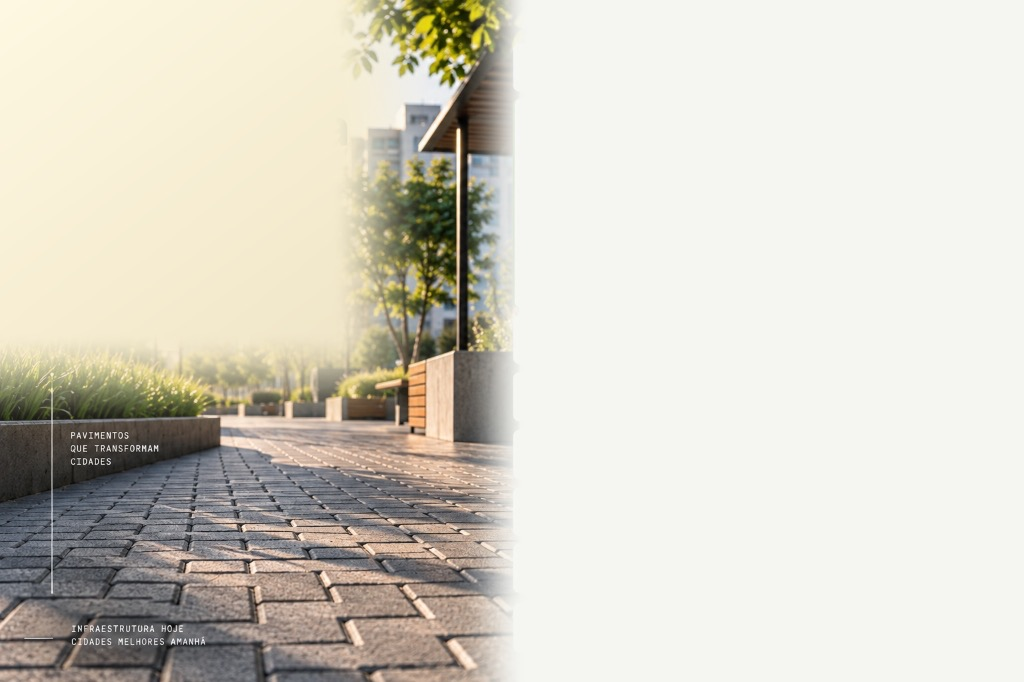
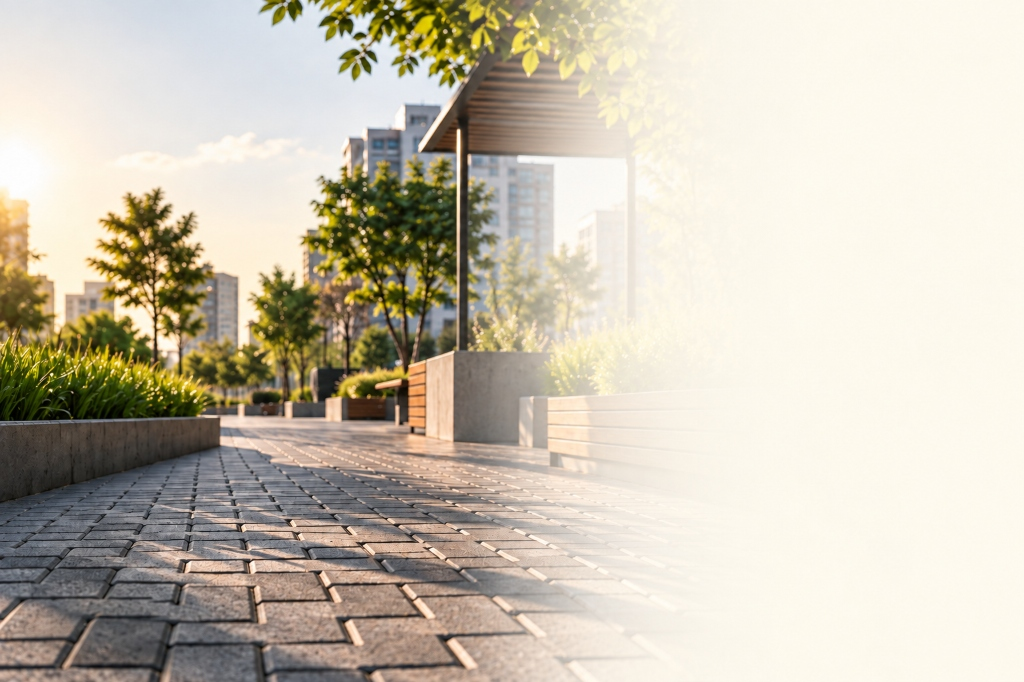
feat(ui): integrar imagens oficiais de alta resolucao, unificar tipografia e harmonizar diagramacao

diff --git a/styles.css b/styles.css
@@ -1,20 +1,20 @@
 :root{--ink:#191a18;--muted:#666963;--line:rgba(25,26,24,.13);--paper:#fff;--soft:#f4f4ef;--green:#405b38;--ochre:#b7802a;--dark:#151814;--pad:clamp(20px,5vw,72px);--ease:cubic-bezier(.22,1,.36,1);--font-main:"Manrope",-apple-system,BlinkMacSystemFont,sans-serif;--font-mono:"IBM Plex Mono",monospace}
 *{box-sizing:border-box}html{scroll-behavior:smooth}body{margin:0;background:var(--paper);color:var(--ink);font-family:var(--font-main);-webkit-font-smoothing:antialiased;overflow-x:hidden}body.locked{overflow:hidden}img{display:block;width:100%}a{color:inherit;text-decoration:none}button,input,textarea{font:inherit}button{cursor:pointer}h1,h2,h3,p{margin:0}h1,h2,h3,h4,h5,h6{font-family:var(--font-main);letter-spacing:-.035em}h1{font-weight:800;letter-spacing:-.045em}h2{font-size:clamp(2.2rem,4vw,3.75rem);line-height:1.06;font-weight:700}h3{font-weight:700;letter-spacing:-.02em}.section{padding:clamp(90px,11vw,160px) var(--pad)}.eyebrow{font:500 12px/1.2 var(--font-mono);letter-spacing:.14em;text-transform:uppercase;color:var(--green);margin-bottom:28px}.eyebrow:before{content:"• ";}.eyebrow.light{color:rgba(255,255,255,.62)}
 .site-header{position:fixed;z-index:100;top:0;left:0;width:100%;height:86px;padding:0 var(--pad);display:flex;align-items:center;justify-content:space-between;border-bottom:1px solid rgba(255,255,255,.15);transition:.35s}.site-header.scrolled{height:68px;background:rgba(21,24,20,.88);backdrop-filter:blur(16px)}.brand img{width:136px;filter:brightness(0) invert(1)}.menu-toggle{width:44px;height:44px;border:0;background:transparent;display:grid;align-content:center;gap:7px;padding:8px;position:relative;z-index:3}.menu-toggle span{height:1px;width:26px;background:#fff;transition:.35s var(--ease)}.menu-toggle.active span:first-child{transform:translateY(4px) rotate(45deg)}.menu-toggle.active span:last-child{transform:translateY(-4px) rotate(-45deg)}
-.menu-panel{position:fixed;inset:0;z-index:90;padding:120px var(--pad) 42px;background:var(--dark);color:#fff;display:flex;flex-direction:column;opacity:0;visibility:hidden;transform:translateY(-18px);transition:.45s var(--ease)}.menu-panel.open{opacity:1;visibility:visible;transform:none}.menu-panel nav{margin:auto 0;display:flex;flex-direction:column}.menu-panel nav a{font-size:clamp(25px,4.1vw,58px);line-height:1.2;color:rgba(255,255,255,.62);transition:.25s}.menu-panel nav a:hover{color:#fff;transform:translateX(10px)}.menu-panel nav small{display:inline-block;width:38px;font:400 10px "JetBrains Mono";letter-spacing:0;color:rgba(255,255,255,.38)}.menu-meta{display:flex;justify-content:space-between;padding-top:22px;border-top:1px solid rgba(255,255,255,.12);font:400 11px "JetBrains Mono";color:rgba(255,255,255,.46)}
-.hero{height:100svh;min-height:680px;position:relative;color:#fff;display:flex;align-items:center;padding:100px var(--pad) 70px;overflow:hidden}.hero-media,.hero-shade{position:absolute;inset:0}.hero-media img{height:100%;object-fit:cover;transform:scale(1.02);animation:heroZoom 18s ease-out both}.hero-shade{background:linear-gradient(90deg,rgba(10,13,10,.7) 0%,rgba(10,13,10,.22) 62%),linear-gradient(0deg,rgba(8,10,8,.68),transparent 55%)}@keyframes heroZoom{to{transform:scale(1.09)}}.hero-content{position:relative;z-index:2;max-width:790px}.hero h1{font-size:clamp(48px,5.8vw,72px);line-height:1.02;letter-spacing:-.045em}.hero-content>p{font-size:clamp(17px,1.55vw,21px);line-height:1.5;max-width:560px;margin:30px 0}.button{height:45px;display:inline-grid;align-items:start;overflow:hidden;padding:0 20px;border:0;border-radius:3px;font-weight:500;font-size:13px}.button span{height:45px;display:flex;align-items:center;transition:transform .4s var(--ease)}.button:hover span{transform:translateY(-45px)}.button-light{background:#fff;color:var(--ink)}.button-dark{background:var(--dark);color:#fff}.hero-proof{position:absolute;z-index:2;bottom:55px;right:var(--pad);display:flex;align-items:center;gap:13px}.avatars{display:flex}.avatars img{width:42px;height:42px;object-fit:cover;border-radius:50%;border:2px solid #fff;margin-left:-10px}.avatars img:first-child{margin-left:0}.hero-proof p{display:flex;flex-direction:column;font-size:12px}.hero-proof span{color:rgba(255,255,255,.65);font-size:10px}.scroll-cue{position:absolute;z-index:2;bottom:20px;left:var(--pad);font:400 10px "JetBrains Mono";color:rgba(255,255,255,.6);text-transform:uppercase;letter-spacing:.08em}.scroll-cue span{margin-left:10px}
+.menu-panel{position:fixed;inset:0;z-index:90;padding:120px var(--pad) 42px;background:var(--dark);color:#fff;display:flex;flex-direction:column;opacity:0;visibility:hidden;transform:translateY(-18px);transition:.45s var(--ease)}.menu-panel.open{opacity:1;visibility:visible;transform:none}.menu-panel nav{margin:auto 0;display:flex;flex-direction:column}.menu-panel nav a{font-size:clamp(25px,4.1vw,58px);line-height:1.2;color:rgba(255,255,255,.62);transition:.25s}.menu-panel nav a:hover{color:#fff;transform:translateX(10px)}.menu-panel nav small{display:inline-block;width:38px;font:400 10px var(--font-mono);letter-spacing:0;color:rgba(255,255,255,.38)}.menu-meta{display:flex;justify-content:space-between;padding-top:22px;border-top:1px solid rgba(255,255,255,.12);font:400 11px var(--font-mono);color:rgba(255,255,255,.46)}
+.hero{height:100svh;min-height:680px;position:relative;color:#fff;display:flex;align-items:center;padding:100px var(--pad) 70px;overflow:hidden}.hero-media,.hero-shade{position:absolute;inset:0}.hero-media img{height:100%;object-fit:cover;transform:scale(1.02);animation:heroZoom 18s ease-out both}.hero-shade{background:linear-gradient(90deg,rgba(10,13,10,.7) 0%,rgba(10,13,10,.22) 62%),linear-gradient(0deg,rgba(8,10,8,.68),transparent 55%)}@keyframes heroZoom{to{transform:scale(1.09)}}.hero-content{position:relative;z-index:2;max-width:790px}.hero h1{font-size:clamp(48px,5.8vw,72px);line-height:1.02;letter-spacing:-.045em}.hero-content>p{font-size:clamp(17px,1.55vw,21px);line-height:1.5;max-width:560px;margin:30px 0}.button{height:45px;display:inline-grid;align-items:start;overflow:hidden;padding:0 20px;border:0;border-radius:3px;font-weight:500;font-size:13px}.button span{height:45px;display:flex;align-items:center;transition:transform .4s var(--ease)}.button:hover span{transform:translateY(-45px)}.button-light{background:#fff;color:var(--ink)}.button-dark{background:var(--dark);color:#fff}.hero-proof{position:absolute;z-index:2;bottom:55px;right:var(--pad);display:flex;align-items:center;gap:13px}.avatars{display:flex}.avatars img{width:42px;height:42px;object-fit:cover;border-radius:50%;border:2px solid #fff;margin-left:-10px}.avatars img:first-child{margin-left:0}.hero-proof p{display:flex;flex-direction:column;font-size:12px}.hero-proof span{color:rgba(255,255,255,.65);font-size:10px}.scroll-cue{position:absolute;z-index:2;bottom:20px;left:var(--pad);font:400 10px var(--font-mono);color:rgba(255,255,255,.6);text-transform:uppercase;letter-spacing:.08em}.scroll-cue span{margin-left:10px}
 .manifesto{position:relative;z-index:4;margin-top:-24px;scroll-margin-top:calc(100svh - 200px);border-radius:24px 24px 0 0;background:var(--paper);text-align:center;min-height:105svh;display:flex;flex-direction:column;justify-content:center;align-items:center;overflow:hidden}.manifesto-copy{font-size:clamp(30px,4vw,56px);line-height:1.18;letter-spacing:-.04em;max-width:1080px}.manifesto-copy em{font-weight:300;color:var(--green)}.manifesto-word{display:inline-block;will-change:transform,filter,opacity;transition:opacity .08s linear,filter .08s linear,transform .08s linear}
 .journey{background:var(--dark);color:#fff;padding:0 var(--pad)}.journey-shell{display:grid;grid-template-columns:minmax(280px,.72fr) minmax(0,1.45fr);gap:clamp(48px,8vw,130px);max-width:1500px;margin:auto}.journey-intro{position:sticky;top:0;height:100svh;display:flex;flex-direction:column;justify-content:center}.journey-intro h2{font-size:clamp(48px,5.4vw,82px)}.journey-intro>p:not(.eyebrow){margin-top:30px;max-width:420px;color:rgba(255,255,255,.6);font-size:17px;line-height:1.62}.journey-status{margin-top:55px;display:grid;grid-template-columns:25px 1fr 25px;align-items:center;gap:13px;color:rgba(255,255,255,.45);font-size:11px;font-variant-numeric:tabular-nums}.journey-current{color:#fff}.journey-progress{height:1px;background:rgba(255,255,255,.18);overflow:hidden}.journey-progress i{display:block;width:25%;height:100%;background:var(--ochre);transition:width .65s var(--ease)}.journey-stage{min-height:100svh;display:flex;flex-direction:column;justify-content:center;padding:11vh 0;opacity:.42;transform:scale(.975);transition:opacity .65s var(--ease),transform .65s var(--ease)}.journey-stage.is-active{opacity:1;transform:none}.journey-stage figure{margin:0;overflow:hidden;border-radius:2px}.journey-stage img{aspect-ratio:16/9;object-fit:cover;filter:saturate(.82);transition:transform 1.2s var(--ease)}.journey-stage.is-active img{transform:scale(1.018)}.journey-copy{display:grid;grid-template-columns:150px 1fr;gap:25px;padding-top:28px}.journey-copy>span{font-size:11px;letter-spacing:.08em;text-transform:uppercase;color:var(--ochre)}.journey-copy h3{font-size:clamp(28px,3vw,44px);line-height:1.08}.journey-copy p{grid-column:2;color:rgba(255,255,255,.58);font-size:16px;line-height:1.6;max-width:620px}
 .stats{background:#eeeee7!important}.stats-intro{display:grid;grid-template-columns:1fr 1.3fr;gap:7vw;align-items:end;margin-bottom:clamp(55px,7vw,100px)}.stats-intro .eyebrow{grid-column:1/-1;margin-bottom:0}.stats-intro h2{font-size:clamp(48px,6vw,88px)}.stats-intro>p:last-child{max-width:450px;color:var(--muted);font-size:18px;line-height:1.6;padding-bottom:8px}.stats-grid{display:grid;grid-template-columns:repeat(2,1fr);gap:2px;background:rgba(25,26,24,.13)}.metric{min-height:390px;padding:clamp(28px,3.5vw,52px);background:#f8f8f4;display:grid;grid-template-columns:1fr auto;grid-template-rows:auto 1fr auto;overflow:hidden;transition:background .5s var(--ease),color .5s var(--ease)}.metric-index{font-size:11px;color:var(--muted)}.metric>p{justify-self:end;font-size:13px;text-transform:uppercase;letter-spacing:.08em}.metric strong{grid-column:1/-1;align-self:center;display:block;font-size:clamp(76px,10vw,154px);line-height:.8;font-weight:500;letter-spacing:-.075em;transform:translateY(28px);opacity:0;transition:transform .85s var(--ease),opacity .85s var(--ease)}.stats.metrics-visible .metric strong{transform:none;opacity:1}.metric:nth-child(2) strong{transition-delay:.08s}.metric:nth-child(3) strong{transition-delay:.16s}.metric:nth-child(4) strong{transition-delay:.24s}.metric strong small{font-size:.27em;letter-spacing:-.03em;margin-left:8px}.metric>div{grid-column:1/-1;display:grid;grid-template-columns:80px minmax(0,360px);gap:20px;align-items:start}.metric>div i{height:2px;background:var(--ochre);margin-top:10px}.metric>div span{font-size:15px;line-height:1.5;color:var(--muted)}.metric-featured{background:var(--green);color:#fff}.metric-featured .metric-index,.metric-featured>div span{color:rgba(255,255,255,.63)}.metric-dark{background:var(--dark);color:#fff}.metric-dark .metric-index,.metric-dark>div span{color:rgba(255,255,255,.6)}
-.collection{background:#fafaf8}.collection .section-head{padding-bottom:60px}.filters{display:flex;gap:4px;background:#eeeee9;padding:5px}.filters button{border:0;background:transparent;padding:10px 15px;font:500 10px "JetBrains Mono";text-transform:uppercase;color:var(--muted)}.filters button.active{background:var(--dark);color:#fff}.product-grid{display:grid;grid-template-columns:repeat(3,1fr);gap:28px}.product-card{min-width:0;transition:.35s var(--ease)}.product-card:last-child{display:none}.product-image{display:block;width:100%;height:auto;position:relative;border:0;padding:0;background:none;overflow:hidden}.product-image img{aspect-ratio:1/1;object-fit:cover;transition:transform .8s var(--ease)}.product-image:hover img{transform:scale(1.045)}.product-image>span{position:absolute;left:14px;top:14px;padding:7px 9px;background:rgba(255,255,255,.9);font:500 9px "JetBrains Mono";text-transform:uppercase}.product-title{display:flex;justify-content:space-between;gap:16px;align-items:baseline;padding-top:20px}.product-title h3{font-size:22px}.product-title b{font:400 10px "JetBrains Mono";color:var(--ochre);text-transform:uppercase}.product-card>p{color:var(--muted);font-size:14px;margin-top:8px}.spec-row{display:flex;align-items:center;gap:18px;border-top:1px solid var(--line);margin-top:22px;padding-top:15px;font:400 10px "JetBrains Mono";text-transform:uppercase}.spec-row button{margin-left:auto;width:34px;height:34px;border:1px solid var(--line);border-radius:50%;background:transparent}.product-card.hidden{display:none}
-.expertise>h2{margin-bottom:65px}.expertise-list{border-top:1px solid var(--line)}.expertise-list article{display:grid;grid-template-columns:65px 1.1fr 1.6fr 1fr;gap:30px;padding:45px 0;border-bottom:1px solid var(--line)}.expertise-list article>span{font:400 11px "JetBrains Mono"}.expertise-list h3{font-size:clamp(27px,3vw,42px)}.expertise-list p{color:var(--muted);font-size:16px;line-height:1.6;max-width:520px}.expertise-list ul{list-style:none;margin:0;padding:0;font:400 12px/2 "JetBrains Mono"}.expertise-list li{border-bottom:1px solid var(--line)}
-.calculator{background:var(--green);color:#fff;display:grid;grid-template-columns:1fr 1.1fr;gap:10vw;align-items:center}.calc-intro h2{max-width:580px}.calc-intro>p:last-child{max-width:480px;color:rgba(255,255,255,.62);font-size:17px;line-height:1.55;margin-top:30px}.calc-panel{background:#fff;color:var(--ink);padding:clamp(25px,4vw,55px)}.range-head{display:flex;align-items:end;justify-content:space-between}.range-head label{font:500 11px "JetBrains Mono";text-transform:uppercase}.range-head strong{font-size:32px}input[type=range]{width:100%;accent-color:var(--green);margin:38px 0 20px}.presets{display:flex;gap:8px}.presets button{padding:9px 12px;border:1px solid var(--line);background:transparent;font:400 10px "JetBrains Mono"}.calc-results{display:grid;grid-template-columns:1fr 1fr;gap:15px;margin:36px 0}.calc-results article{padding:20px;background:var(--soft)}.calc-results span{display:block;font:400 9px "JetBrains Mono";text-transform:uppercase;margin-bottom:10px}.calc-results strong{font-size:clamp(22px,3vw,34px);color:var(--green)}.text-link{font-size:13px;border-bottom:1px solid var(--ink);padding-bottom:3px}
-.collaboration{background:var(--dark);color:#fff;display:grid;grid-template-columns:1.1fr .9fr;gap:8vw;align-items:center}.collab-image img{height:680px;object-fit:cover}.collab-copy h2{margin-bottom:30px}.collab-copy>p:not(.eyebrow){font-size:19px;line-height:1.6;color:rgba(255,255,255,.63)}dl{margin:55px 0 0}dl div{display:grid;grid-template-columns:120px 1fr;padding:17px 0;border-top:1px solid rgba(255,255,255,.14)}dt{font:400 10px "JetBrains Mono";text-transform:uppercase;color:rgba(255,255,255,.45)}dd{margin:0;font-size:14px}
-.proof .section-head{margin-bottom:60px}.proof-grid{display:grid;grid-template-columns:2fr 1fr;grid-template-rows:1fr 1fr;gap:22px}.proof-grid figure{margin:0;position:relative;overflow:hidden}.proof-grid img{height:100%;object-fit:cover;min-height:260px;transition:transform .8s var(--ease)}.proof-grid figure:hover img{transform:scale(1.025)}.proof-main{grid-row:1/3}.proof-main img{min-height:650px}.proof-grid figcaption{position:absolute;left:18px;bottom:18px;background:rgba(255,255,255,.91);padding:8px 10px;font:500 9px "JetBrains Mono";text-transform:uppercase}
+.collection{background:#fafaf8}.collection .section-head{padding-bottom:60px}.filters{display:flex;gap:4px;background:#eeeee9;padding:5px}.filters button{border:0;background:transparent;padding:10px 15px;font:500 10px var(--font-mono);text-transform:uppercase;color:var(--muted)}.filters button.active{background:var(--dark);color:#fff}.product-grid{display:grid;grid-template-columns:repeat(3,1fr);gap:28px}.product-card{min-width:0;transition:.35s var(--ease)}.product-card:last-child{display:none}.product-image{display:block;width:100%;height:auto;position:relative;border:0;padding:0;background:none;overflow:hidden}.product-image img{aspect-ratio:1/1;object-fit:cover;transition:transform .8s var(--ease)}.product-image:hover img{transform:scale(1.045)}.product-image>span{position:absolute;left:14px;top:14px;padding:7px 9px;background:rgba(255,255,255,.9);font:500 9px var(--font-mono);text-transform:uppercase}.product-title{display:flex;justify-content:space-between;gap:16px;align-items:baseline;padding-top:20px}.product-title h3{font-size:22px}.product-title b{font:400 10px var(--font-mono);color:var(--ochre);text-transform:uppercase}.product-card>p{color:var(--muted);font-size:14px;margin-top:8px}.spec-row{display:flex;align-items:center;gap:18px;border-top:1px solid var(--line);margin-top:22px;padding-top:15px;font:400 10px var(--font-mono);text-transform:uppercase}.spec-row button{margin-left:auto;width:34px;height:34px;border:1px solid var(--line);border-radius:50%;background:transparent}.product-card.hidden{display:none}
+.expertise>h2{margin-bottom:65px}.expertise-list{border-top:1px solid var(--line)}.expertise-list article{display:grid;grid-template-columns:65px 1.1fr 1.6fr 1fr;gap:30px;padding:45px 0;border-bottom:1px solid var(--line)}.expertise-list article>span{font:400 11px var(--font-mono)}.expertise-list h3{font-size:clamp(27px,3vw,42px)}.expertise-list p{color:var(--muted);font-size:16px;line-height:1.6;max-width:520px}.expertise-list ul{list-style:none;margin:0;padding:0;font:400 12px/2 var(--font-mono)}.expertise-list li{border-bottom:1px solid var(--line)}
+.calculator{background:var(--green);color:#fff;display:grid;grid-template-columns:1fr 1.1fr;gap:10vw;align-items:center}.calc-intro h2{max-width:580px}.calc-intro>p:last-child{max-width:480px;color:rgba(255,255,255,.62);font-size:17px;line-height:1.55;margin-top:30px}.calc-panel{background:#fff;color:var(--ink);padding:clamp(25px,4vw,55px)}.range-head{display:flex;align-items:end;justify-content:space-between}.range-head label{font:500 11px var(--font-mono);text-transform:uppercase}.range-head strong{font-size:32px}input[type=range]{width:100%;accent-color:var(--green);margin:38px 0 20px}.presets{display:flex;gap:8px}.presets button{padding:9px 12px;border:1px solid var(--line);background:transparent;font:400 10px var(--font-mono)}.calc-results{display:grid;grid-template-columns:1fr 1fr;gap:15px;margin:36px 0}.calc-results article{padding:20px;background:var(--soft)}.calc-results span{display:block;font:400 9px var(--font-mono);text-transform:uppercase;margin-bottom:10px}.calc-results strong{font-size:clamp(22px,3vw,34px);color:var(--green)}.text-link{font-size:13px;border-bottom:1px solid var(--ink);padding-bottom:3px}
+.collaboration{background:var(--dark);color:#fff;display:grid;grid-template-columns:1.1fr .9fr;gap:8vw;align-items:center}.collab-image img{height:680px;object-fit:cover}.collab-copy h2{margin-bottom:30px}.collab-copy>p:not(.eyebrow){font-size:19px;line-height:1.6;color:rgba(255,255,255,.63)}dl{margin:55px 0 0}dl div{display:grid;grid-template-columns:120px 1fr;padding:17px 0;border-top:1px solid rgba(255,255,255,.14)}dt{font:400 10px var(--font-mono);text-transform:uppercase;color:rgba(255,255,255,.45)}dd{margin:0;font-size:14px}
+.proof .section-head{margin-bottom:60px}.proof-grid{display:grid;grid-template-columns:2fr 1fr;grid-template-rows:1fr 1fr;gap:22px}.proof-grid figure{margin:0;position:relative;overflow:hidden}.proof-grid img{height:100%;object-fit:cover;min-height:260px;transition:transform .8s var(--ease)}.proof-grid figure:hover img{transform:scale(1.025)}.proof-main{grid-row:1/3}.proof-main img{min-height:650px}.proof-grid figcaption{position:absolute;left:18px;bottom:18px;background:rgba(255,255,255,.91);padding:8px 10px;font:500 9px var(--font-mono);text-transform:uppercase}
 .faq{display:grid;grid-template-columns:.8fr 1.2fr;gap:10vw}.faq h2{max-width:460px}.faq-list{border-top:1px solid var(--line)}details{border-bottom:1px solid var(--line);padding:23px 0}summary{list-style:none;cursor:pointer;display:flex;justify-content:space-between;gap:20px;font-size:18px}summary::-webkit-details-marker{display:none}summary span{transition:.3s}details[open] summary span{transform:rotate(45deg)}details p{color:var(--muted);line-height:1.6;padding:18px 50px 3px 0;max-width:680px}
-.contact{padding:clamp(90px,11vw,150px) var(--pad);background:#ecece6;display:grid;grid-template-columns:1fr 1fr;gap:10vw}.contact-copy h2{font-size:clamp(45px,5.7vw,78px);line-height:1.02;max-width:680px}.contact-copy>p:not(.eyebrow){color:var(--muted);font-size:17px;line-height:1.55;max-width:530px;margin-top:30px}.contact-meta{font-family:"JetBrains Mono"!important;font-size:11px!important;line-height:1.8!important}form{background:#fff;padding:clamp(25px,4vw,50px)}form label{display:block;font:500 9px "JetBrains Mono";letter-spacing:.08em;text-transform:uppercase;margin-bottom:18px}input:not([type=range]),textarea{display:block;width:100%;border:0;border-bottom:1px solid var(--line);padding:12px 0;background:transparent;outline:0;font:400 15px var(--font-main);resize:vertical}input:focus,textarea:focus{border-color:var(--green)}.form-alert{font-size:12px;color:var(--green);margin-top:14px}
-footer{padding:80px var(--pad) 30px;background:var(--dark);color:#fff}.footer-top{display:flex;justify-content:space-between;border-bottom:1px solid rgba(255,255,255,.13);padding-bottom:65px}.footer-top img{width:145px;filter:brightness(0) invert(1);margin-bottom:20px}.footer-top p{color:rgba(255,255,255,.55);font-size:14px;line-height:1.55}.footer-top nav{display:grid;grid-template-columns:1fr 1fr;gap:10px 70px;font:400 11px "JetBrains Mono";color:rgba(255,255,255,.68)}.footer-word{font-size:clamp(120px,24vw,340px);line-height:.82;text-align:center;letter-spacing:-.08em;font-weight:500;padding:65px 0 45px}.footer-bottom{display:flex;justify-content:space-between;border-top:1px solid rgba(255,255,255,.13);padding-top:25px;font:400 9px "JetBrains Mono";text-transform:uppercase;color:rgba(255,255,255,.4)}
-.drawer-backdrop{position:fixed;inset:0;z-index:150;background:rgba(0,0,0,.55);opacity:0;visibility:hidden;transition:.3s}.drawer-backdrop.open{opacity:1;visibility:visible}.drawer{position:fixed;z-index:151;right:0;top:0;height:100%;width:min(570px,100%);background:#fff;padding:60px clamp(25px,5vw,55px);transform:translateX(100%);visibility:hidden;transition:.45s var(--ease);overflow:auto}.drawer.open{transform:none;visibility:visible}.drawer-close{position:absolute;right:25px;top:22px;border:0;background:none;font-size:30px}.drawer h2{font-size:42px;margin-bottom:25px}.drawer>p:not(.eyebrow){color:var(--muted);line-height:1.55}.drawer-code{font:400 10px "JetBrains Mono"!important;margin:20px 0}.drawer-spec{display:flex;justify-content:space-between;gap:20px;padding:13px 0;border-bottom:1px solid var(--line);font-size:12px}.drawer-spec span:first-child{color:var(--muted)}.drawer-cta{margin-top:35px}
+.contact{padding:clamp(90px,11vw,150px) var(--pad);background:#ecece6;display:grid;grid-template-columns:1fr 1fr;gap:10vw}.contact-copy h2{font-size:clamp(45px,5.7vw,78px);line-height:1.02;max-width:680px}.contact-copy>p:not(.eyebrow){color:var(--muted);font-size:17px;line-height:1.55;max-width:530px;margin-top:30px}.contact-meta{font-family:var(--font-mono)!important;font-size:11px!important;line-height:1.8!important}form{background:#fff;padding:clamp(25px,4vw,50px)}form label{display:block;font:500 9px var(--font-mono);letter-spacing:.08em;text-transform:uppercase;margin-bottom:18px}input:not([type=range]),textarea{display:block;width:100%;border:0;border-bottom:1px solid var(--line);padding:12px 0;background:transparent;outline:0;font:400 15px var(--font-main);resize:vertical}input:focus,textarea:focus{border-color:var(--green)}.form-alert{font-size:12px;color:var(--green);margin-top:14px}
+footer{padding:80px var(--pad) 30px;background:var(--dark);color:#fff}.footer-top{display:flex;justify-content:space-between;border-bottom:1px solid rgba(255,255,255,.13);padding-bottom:65px}.footer-top img{width:145px;filter:brightness(0) invert(1);margin-bottom:20px}.footer-top p{color:rgba(255,255,255,.55);font-size:14px;line-height:1.55}.footer-top nav{display:grid;grid-template-columns:1fr 1fr;gap:10px 70px;font:400 11px var(--font-mono);color:rgba(255,255,255,.68)}.footer-word{font-size:clamp(120px,24vw,340px);line-height:.82;text-align:center;letter-spacing:-.08em;font-weight:500;padding:65px 0 45px}.footer-bottom{display:flex;justify-content:space-between;border-top:1px solid rgba(255,255,255,.13);padding-top:25px;font:400 9px var(--font-mono);text-transform:uppercase;color:rgba(255,255,255,.4)}
+.drawer-backdrop{position:fixed;inset:0;z-index:150;background:rgba(0,0,0,.55);opacity:0;visibility:hidden;transition:.3s}.drawer-backdrop.open{opacity:1;visibility:visible}.drawer{position:fixed;z-index:151;right:0;top:0;height:100%;width:min(570px,100%);background:#fff;padding:60px clamp(25px,5vw,55px);transform:translateX(100%);visibility:hidden;transition:.45s var(--ease);overflow:auto}.drawer.open{transform:none;visibility:visible}.drawer-close{position:absolute;right:25px;top:22px;border:0;background:none;font-size:30px}.drawer h2{font-size:42px;margin-bottom:25px}.drawer>p:not(.eyebrow){color:var(--muted);line-height:1.55}.drawer-code{font:400 10px var(--font-mono)!important;margin:20px 0}.drawer-spec{display:flex;justify-content:space-between;gap:20px;padding:13px 0;border-bottom:1px solid var(--line);font-size:12px}.drawer-spec span:first-child{color:var(--muted)}.drawer-cta{margin-top:35px}
 .reveal{animation:reveal .9s var(--ease) both}@keyframes reveal{from{opacity:0;transform:translateY(28px)}}
 @media(max-width:900px){.hero-proof{right:auto;left:var(--pad)}.scroll-cue{display:none}.journey-shell{grid-template-columns:1fr;gap:0}.journey-intro{position:relative;height:auto;padding:110px 0 65px}.journey-intro>p:not(.eyebrow){max-width:580px}.journey-status{display:none}.journey-stage{min-height:auto;padding:0 0 100px;opacity:1;transform:none}.stats-intro{grid-template-columns:1fr}.stats-grid{grid-template-columns:1fr 1fr}.metric{min-height:330px}.product-grid{grid-template-columns:1fr 1fr}.product-card:last-child{display:block}.expertise-list article{grid-template-columns:45px 1fr}.expertise-list article>p,.expertise-list article>ul{grid-column:2}.calculator,.collaboration,.faq,.contact{grid-template-columns:1fr}.collab-image img{height:520px}.proof-grid{grid-template-columns:1fr 1fr}.proof-main{grid-column:1/3;grid-row:auto}.proof-main img{min-height:500px}}
 @media(max-width:600px){:root{--pad:20px}.site-header{height:72px}.brand img{width:122px}.hero{min-height:700px;padding-bottom:50px;align-items:flex-start;padding-top:185px}.hero h1{font-size:42px}.hero-content>p{font-size:17px;margin:24px 0}.hero-proof{bottom:42px}.hero-proof span{max-width:180px}.manifesto{min-height:650px}.manifesto-copy{font-size:30px}.section-head{align-items:flex-start;flex-direction:column}.section-head.section{padding-bottom:45px}.journey-intro{padding:95px 0 55px}.journey-intro h2{font-size:46px}.journey-copy{grid-template-columns:1fr;gap:12px;padding-top:20px}.journey-copy p{grid-column:1}.journey-stage{padding-bottom:78px}.journey-stage img{aspect-ratio:4/5}.stats-intro{margin-bottom:48px}.stats-intro h2{font-size:46px}.stats-grid{grid-template-columns:1fr}.metric{min-height:310px}.metric strong{font-size:88px}.metric>div{grid-template-columns:50px 1fr}.collection .section-head{padding-bottom:40px}.filters{width:100%;overflow:auto}.product-grid{grid-template-columns:1fr}.product-card:last-child{display:block}.expertise-list article{grid-template-columns:32px 1fr;gap:15px}.expertise-list article>p,.expertise-list article>ul{grid-column:1/3}.calc-results{grid-template-columns:1fr}.collaboration{padding-left:0;padding-right:0}.collab-copy{padding:20px var(--pad)}.collab-image img{height:460px}.proof-grid{display:block}.proof-grid figure{margin-bottom:18px}.proof-main img,.proof-grid img{min-height:360px}.faq{gap:55px}.contact{gap:55px}.footer-top{flex-direction:column;gap:50px}.footer-word{font-size:34vw}.footer-bottom{flex-direction:column;gap:10px}.menu-panel{padding-top:100px}.menu-panel nav a{font-size:25px;line-height:1.42}}

diff --git a/home-hardening.css b/home-hardening.css
@@ -1798,6 +1798,90 @@ footer#rodape.site-footer {
   }
 }
 
+/* ==========================================================================
+   Harmonização Visual Global — Tipografia, Diagramação e Respiros
+   ========================================================================== */
+
+/* 1. Alinhamento Global e Ritmo de Containers */
+:root {
+  --site-max-w: 1400px;
+}
+
+/* 2. Hero Visual Polish */
+.hero {
+  background-color: #0b0e0c !important;
+}
+
+.hero-media img {
+  object-position: center 36% !important;
+}
+
+.hero-shade {
+  background: linear-gradient(
+      90deg,
+      rgba(8, 11, 9, 0.82) 0%,
+      rgba(8, 11, 9, 0.6) 42%,
+      rgba(8, 11, 9, 0.18) 72%,
+      rgba(8, 11, 9, 0.28) 100%
+    ),
+    linear-gradient(0deg, rgba(8, 11, 9, 0.7) 0%, transparent 55%) !important;
+}
+
+.hero h1 {
+  font-family: var(--font-main, 'Manrope', sans-serif) !important;
+  font-weight: 800 !important;
+  letter-spacing: -0.04em !important;
+  line-height: 1.02 !important;
+}
+
+.hero-content > p {
+  font-family: var(--font-main, 'Manrope', sans-serif) !important;
+  font-weight: 400 !important;
+  line-height: 1.55 !important;
+  color: rgba(255, 255, 255, 0.88) !important;
+}
+
+.hero-proof {
+  background: rgba(15, 20, 16, 0.45);
+  backdrop-filter: blur(12px);
+  padding: 12px 18px;
+  border-radius: 999px;
+  border: 1px solid rgba(255, 255, 255, 0.18);
+}
+
+/* 3. Header Polish */
+.site-header {
+  transition: height 0.3s var(--ease), background-color 0.3s ease, backdrop-filter 0.3s ease, border-color 0.3s ease !important;
+}
+
+.site-header.scrolled {
+  background: rgba(14, 18, 15, 0.92) !important;
+  backdrop-filter: blur(20px) !important;
+  border-bottom: 1px solid rgba(255, 255, 255, 0.1) !important;
+}
+
+/* 4. Manifesto Editorial */
+.manifesto-copy {
+  font-family: var(--font-main, 'Manrope', sans-serif) !important;
+  font-weight: 500 !important;
+  letter-spacing: -0.035em !important;
+  line-height: 1.2 !important;
+}
+
+/* 5. Unificação de Eyebrows e Kickers */
+:where(.eyebrow, .kicker, .ods-eyebrow, .platform-kicker, .resource-kicker, .faq-eyebrow, .impact-eyebrow, .process-eyebrow) {
+  font-family: var(--font-mono, 'IBM Plex Mono', monospace) !important;
+  letter-spacing: 0.14em !important;
+  font-weight: 500 !important;
+  text-transform: uppercase !important;
+}
+
+/* 6. Suavidade de Transições Globais para Links e Botões */
+a, button {
+  transition-timing-function: var(--ease);
+}
+
+
 
 
 
